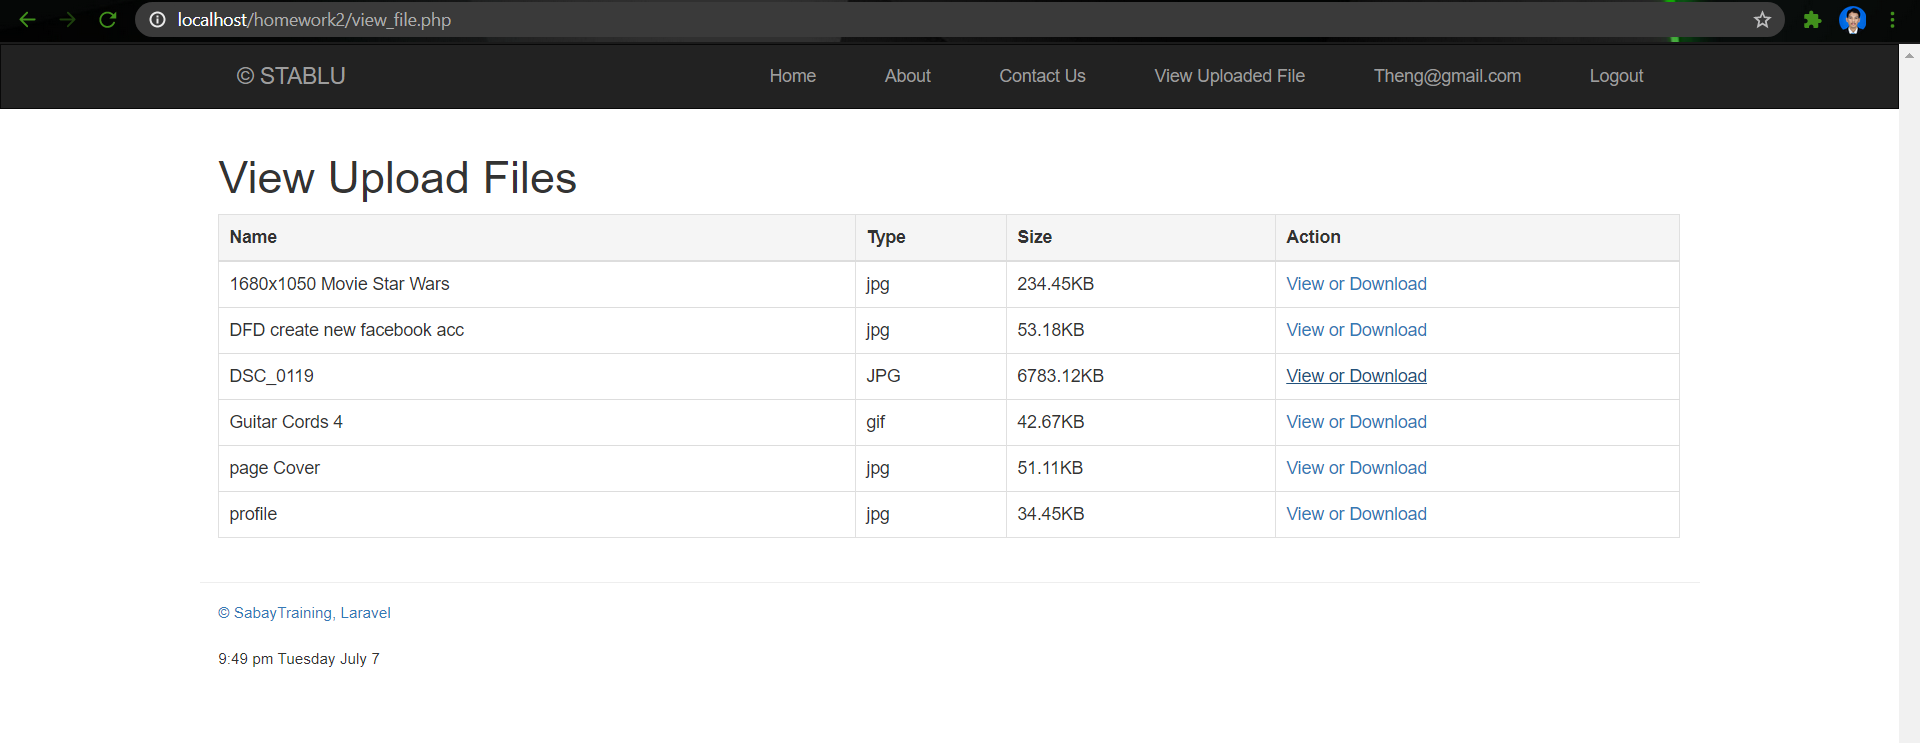
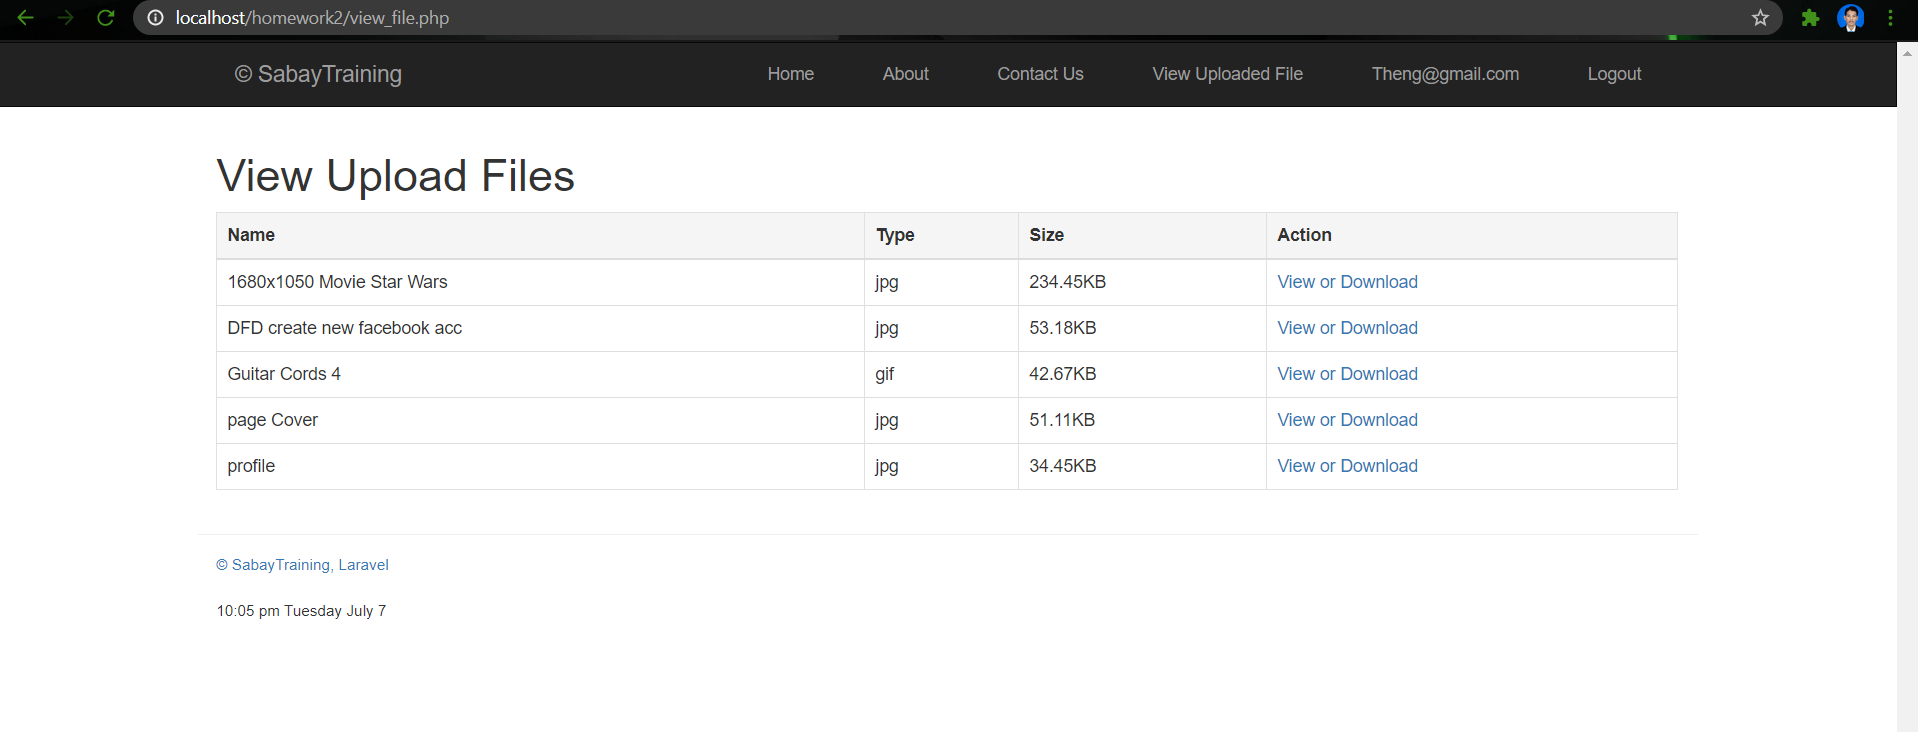
let's commit

diff --git a/templates/headerlogin.html b/templates/headerlogin.html
@@ -39,7 +39,7 @@ session_id( $_COOKIE['mysession'] );
                 <span class="icon-bar"></span>
               </button>
                     <a class="navbar-brand" href="https://sabaytraining.com/">
-                  &copy; STABLU</a>
+                  &copy; SabayTraining</a>
                 </div>
                 <div id="navbar" class="navbar-collapse collapse">
                     <ul class="nav navbar-nav navbar-right">

diff --git a/templates/header1.html b/templates/header1.html
@@ -36,7 +36,7 @@
                 <span class="icon-bar"></span>
               </button>
                 <a class="navbar-brand" href="https://sabaytraining.com/">
-                  &copy; STABLU</a>
+                  &copy; SabayTraining</a>
             </div>
             <div id="navbar" class="navbar-collapse collapse">
                 <ul class="nav navbar-nav navbar-right">
